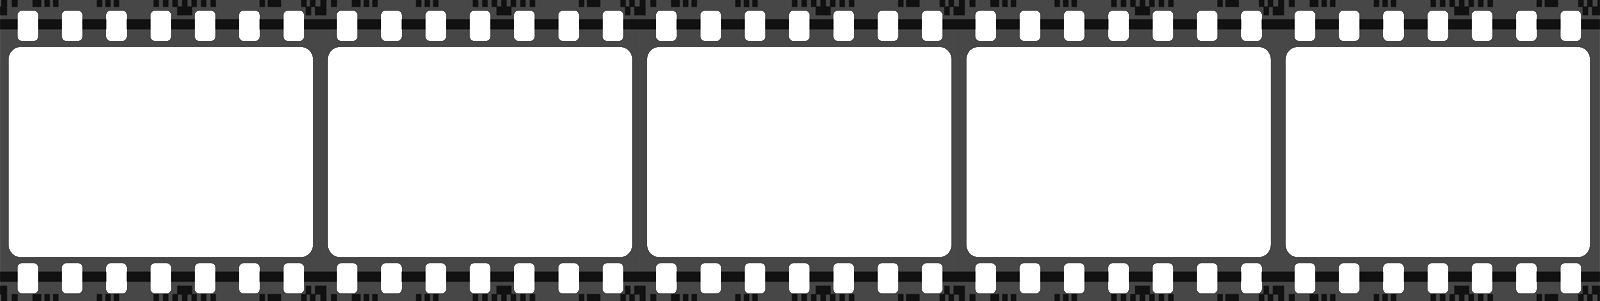
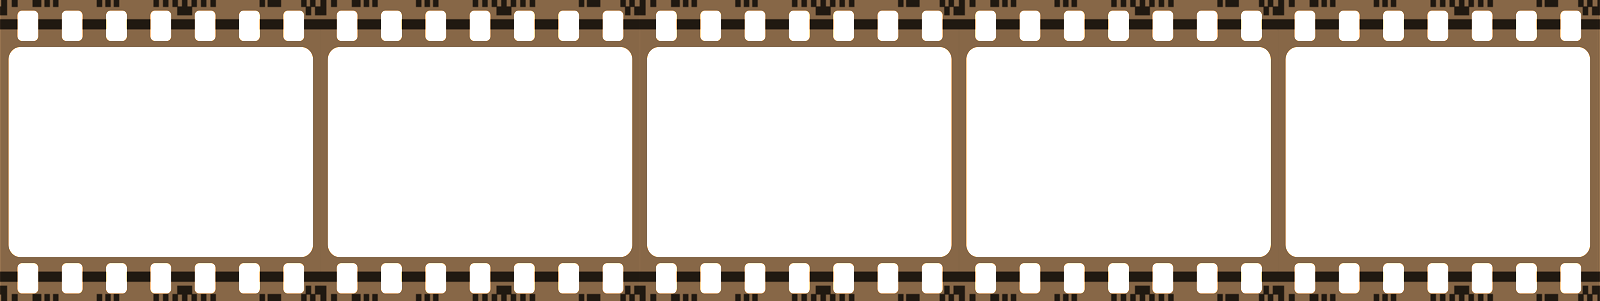
fix(home): film strip in warm film-base brown, larger

Changed region(s): [[0.0, 0.0, 1.0, 1.0]]

diff --git a/home/home.css b/home/home.css
@@ -55,7 +55,7 @@ h2{font-size:clamp(34px,7vw,72px);line-height:1}
 .ch-load .pin{justify-items:start}
 .canister-wrap{position:relative;width:min(40vw,200px)}
 .canister{width:100%;aspect-ratio:1/1;background:none;filter:drop-shadow(0 20px 30px rgba(0,0,0,.6))}
-.leader{position:absolute;left:78%;top:50%;width:min(55vw,420px);aspect-ratio:1600/301;translate:0 -50%;transform-origin:left center;
+.leader{position:absolute;left:78%;top:50%;width:min(72vw,580px);aspect-ratio:1600/301;translate:0 -50%;transform-origin:left center;
   background:url(/img/home/film-strip.png) left center/auto 100% repeat-x;
   -webkit-mask:linear-gradient(90deg,#000 85%,transparent);
   mask:linear-gradient(90deg,#000 85%,transparent)}
